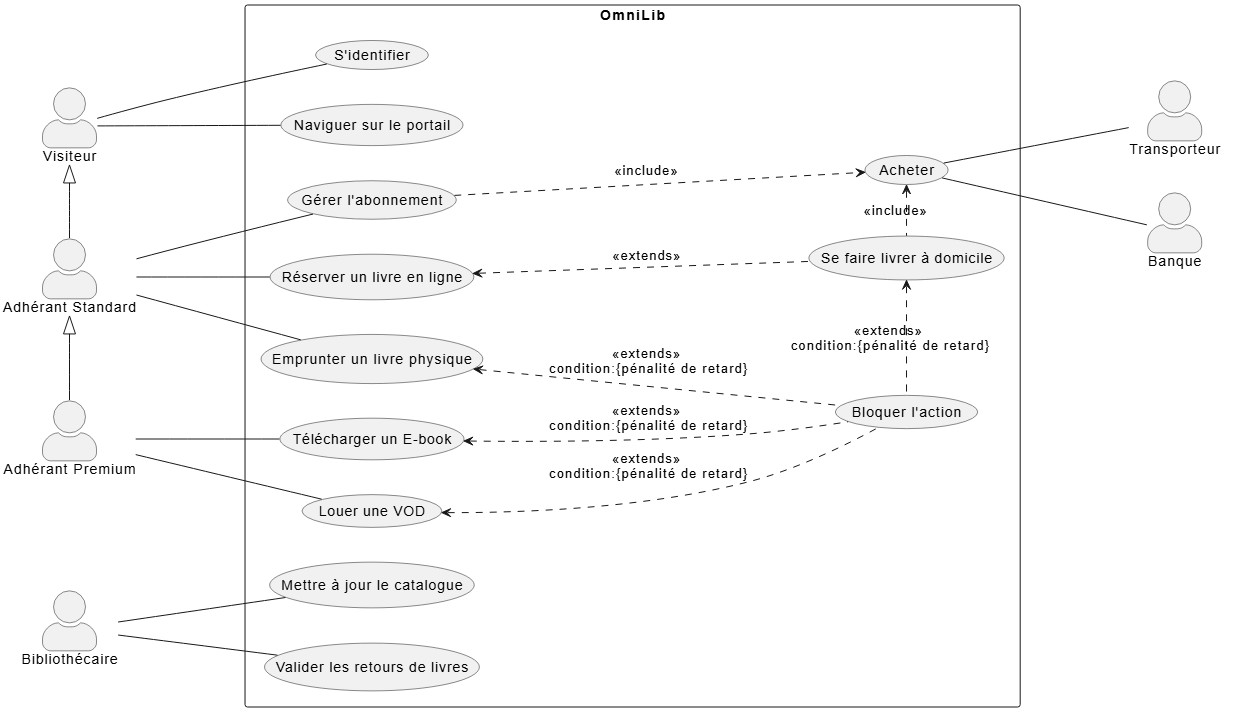
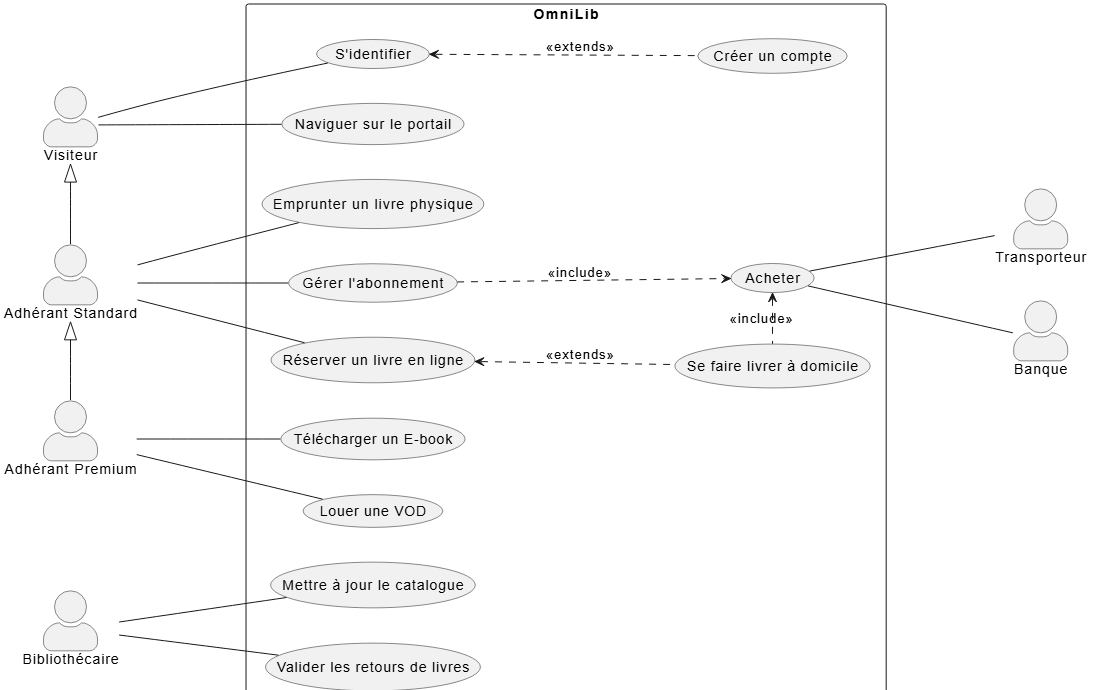
doc: modification du usercase diagram

diff --git a/README.md b/README.md
@@ -22,6 +22,7 @@ actor "Bibliothécaire" as Bibliothecaire
 
 rectangle "OmniLib"{
     usecase "S'identifier" as Identifier
+    usecase "Créer un compte" as Creer
     usecase "Naviguer sur le portail" as Naviguer
     usecase "Gérer l'abonnement" as Gerer
     usecase "Emprunter un livre physique" as Emprunter
@@ -30,7 +31,6 @@ rectangle "OmniLib"{
     usecase "Acheter" as Acheter
     usecase "Télécharger un E-book" as Telecharger
     usecase "Louer une VOD" as Louer
-    usecase "Bloquer l'action" as Bloquer
     usecase "Mettre à jour le catalogue" as MettreAJour
     usecase "Valider les retours de livres" as Valider 
 }
@@ -52,10 +52,7 @@ AdherantStandard --- Gerer
 AdherantPremium --- Telecharger
 AdherantPremium --- Louer
 Reserver <-.- Livraison : <<extends>>
-Louer <-.- Bloquer : <<extends>>\n condition:{pénalité de retard}
-Telecharger <-.- Bloquer : <<extends>>\n condition:{pénalité de retard}
-Emprunter <-.- Bloquer : <<extends>>\n condition:{pénalité de retard}
-Livraison <-right.- Bloquer : <<extends>>\n condition:{pénalité de retard}
+Identifier <-.- Creer : <<extends>>
 Livraison -left.-> Acheter : <<include>>
 Acheter --- Transporteur
 Acheter --- Banque
@@ -121,7 +118,7 @@ classDiagram
     Personne --o Bibliotheque
     Bibliotheque --> Adherent : bloque, livre
     Personne <|-- Bibliothecaire
-    Adherent --|> AdherentPremium
+    Adherent <|-- AdherentPremium
     Adherent --> Article : emprunte (jusqu'à une date)
     Bibliotheque o-- Article : met à disposition
     ArticlePhysique --|> Article
